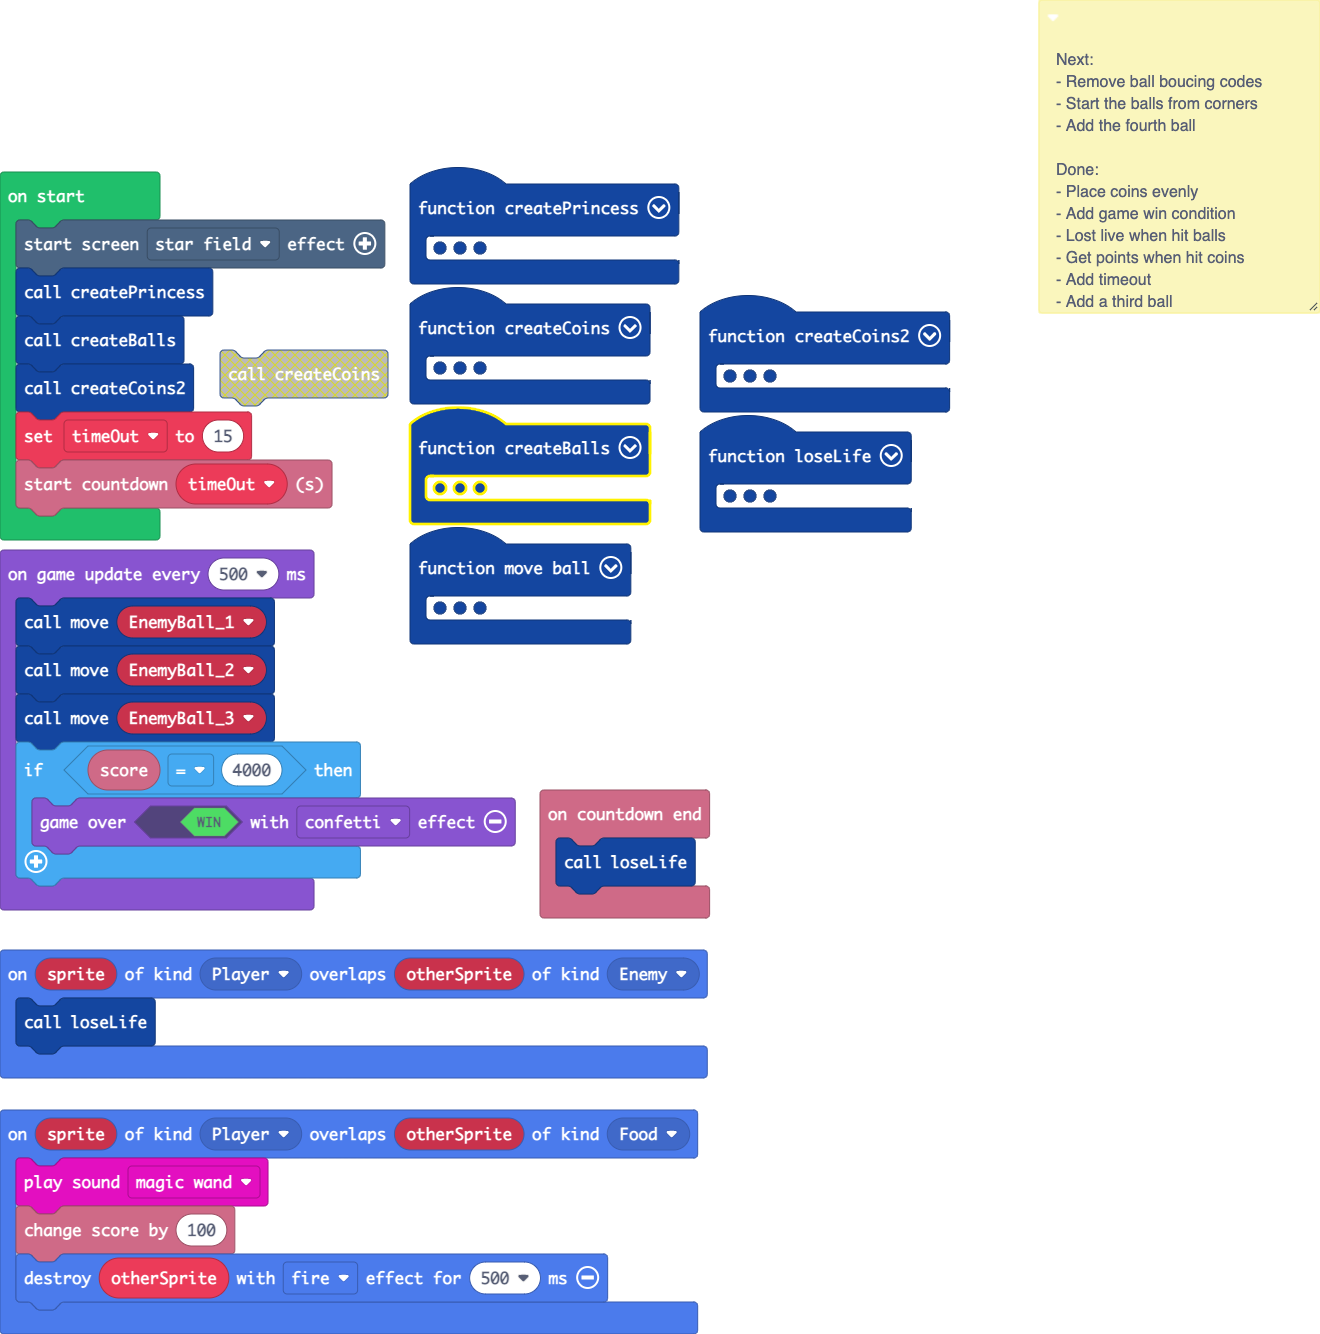
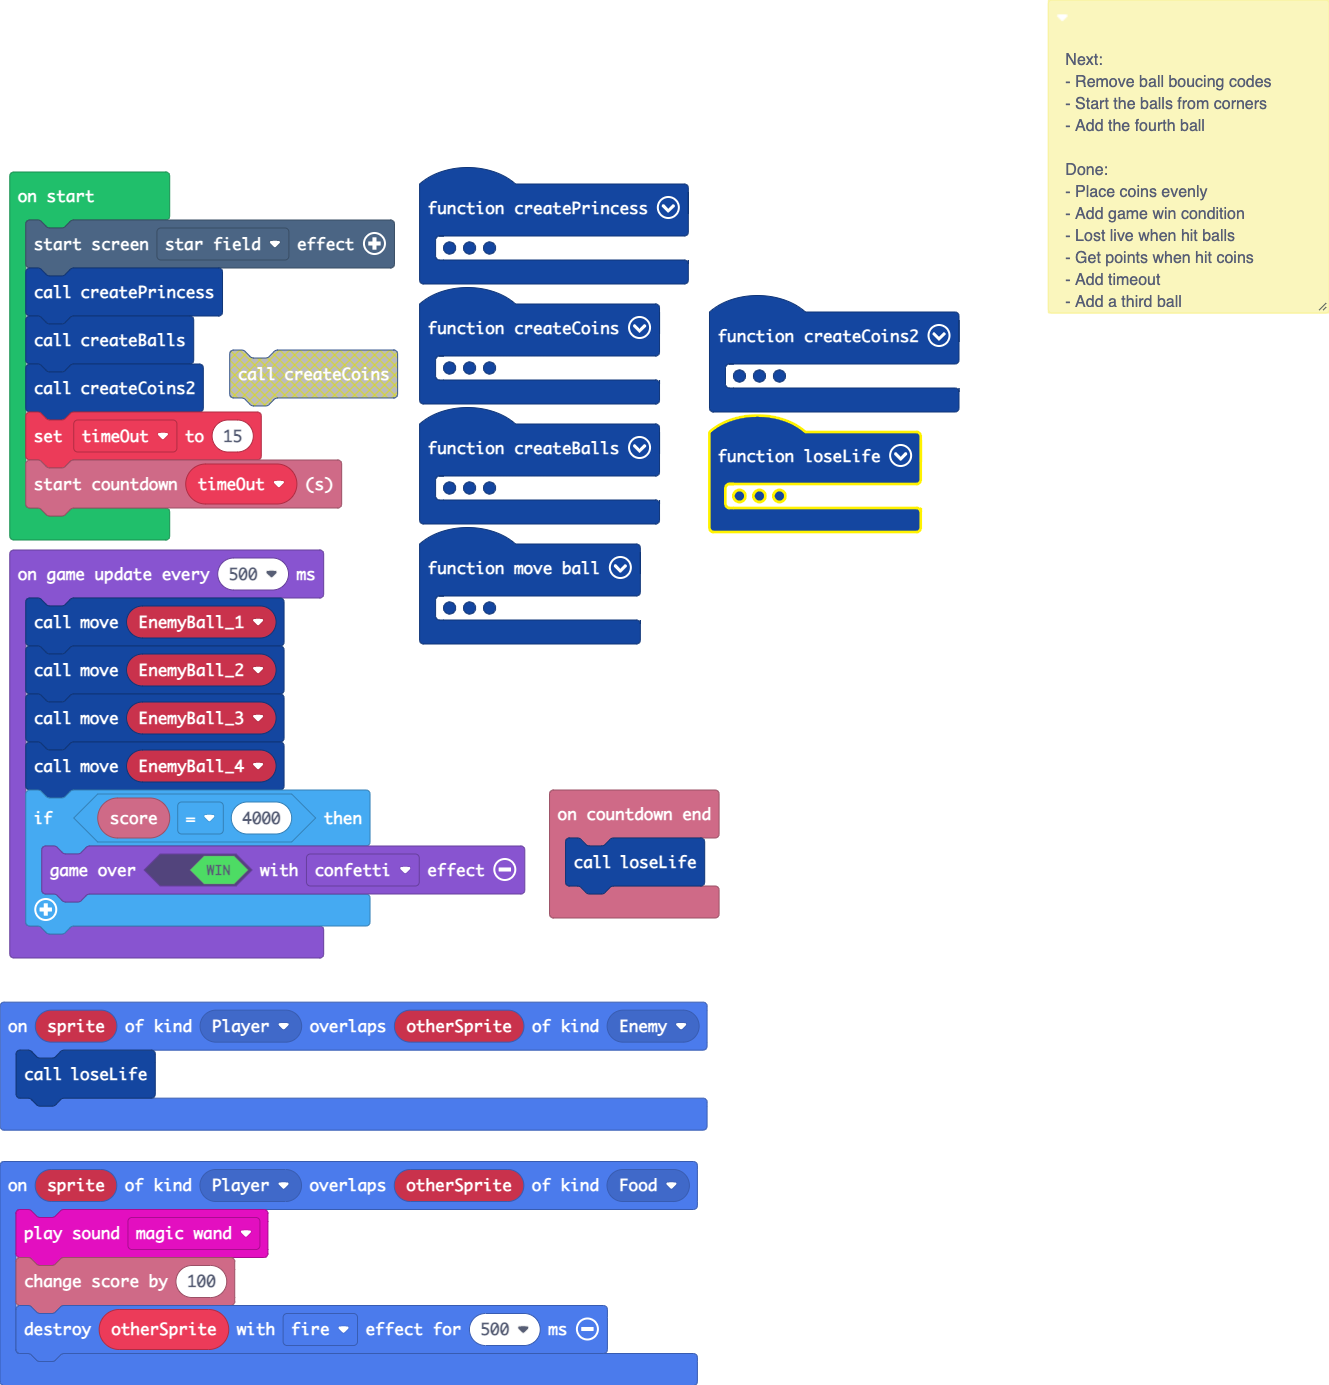
Added fourth ball and start balls from y=40

diff --git a/main.ts b/main.ts
@@ -107,6 +107,7 @@ function loseLife () {
     EnemyBall_1.destroy()
     EnemyBall_2.destroy()
     EnemyBall_3.destroy()
+    EnemyBall_4.destroy()
     createBalls()
     info.startCountdown(timeOut)
 }
@@ -133,7 +134,7 @@ function createBalls () {
         . . . . . . . . . . . . . . . . 
         `, SpriteKind.Enemy)
     EnemyBall_1.x = randint(10, scene.screenWidth() - 10)
-    EnemyBall_1.y = randint(10, scene.screenHeight() - 10)
+    EnemyBall_1.y = randint(40, scene.screenHeight() - 10)
     EnemyBall_1.setVelocity(50, 50)
     EnemyBall_2 = sprites.create(img`
         . . . . . . . . . . . . . . . . 
@@ -154,7 +155,7 @@ function createBalls () {
         . . . . . . . . . . . . . . . . 
         `, SpriteKind.Enemy)
     EnemyBall_2.x = randint(10, scene.screenWidth() - 10)
-    EnemyBall_2.y = randint(10, scene.screenHeight() - 10)
+    EnemyBall_2.y = randint(40, scene.screenHeight() - 10)
     EnemyBall_2.setVelocity(-50, 50)
     EnemyBall_3 = sprites.create(img`
         . . . . . . . . . . . . . . . . 
@@ -175,8 +176,29 @@ function createBalls () {
         . . . . . . . . . . . . . . . . 
         `, SpriteKind.Enemy)
     EnemyBall_3.x = randint(10, scene.screenWidth() - 10)
-    EnemyBall_3.y = randint(10, scene.screenHeight() - 10)
+    EnemyBall_3.y = randint(40, scene.screenHeight() - 10)
     EnemyBall_3.setVelocity(-50, 50)
+    EnemyBall_4 = sprites.create(img`
+        . . . . . . . . . . . . . . . . 
+        . . . . . . 4 4 4 4 . . . . . . 
+        . . . . 4 4 4 5 5 4 4 4 . . . . 
+        . . . 3 3 3 3 4 4 4 4 4 4 . . . 
+        . . 4 3 3 3 3 2 2 2 1 1 4 4 . . 
+        . . 3 3 3 3 3 2 2 2 1 1 5 4 . . 
+        . 4 3 3 3 3 2 2 2 2 2 5 5 4 4 . 
+        . 4 3 3 3 2 2 2 4 4 4 4 5 4 4 . 
+        . 4 4 3 3 2 2 4 4 4 4 4 4 4 4 . 
+        . 4 2 3 3 2 2 4 4 4 4 4 4 4 4 . 
+        . . 4 2 3 3 2 4 4 4 4 4 2 4 . . 
+        . . 4 2 2 3 2 2 4 4 4 2 4 4 . . 
+        . . . 4 2 2 2 2 2 2 2 2 4 . . . 
+        . . . . 4 4 2 2 2 2 4 4 . . . . 
+        . . . . . . 4 4 4 4 . . . . . . 
+        . . . . . . . . . . . . . . . . 
+        `, SpriteKind.Enemy)
+    EnemyBall_4.x = randint(10, scene.screenWidth() - 10)
+    EnemyBall_4.y = randint(40, scene.screenHeight() - 10)
+    EnemyBall_4.setVelocity(-50, 50)
 }
 function createCoins () {
     for (let index = 0; index < 10; index++) {
@@ -232,6 +254,7 @@ function move (ball: Sprite) {
 sprites.onOverlap(SpriteKind.Player, SpriteKind.Enemy, function (sprite, otherSprite) {
     loseLife()
 })
+let EnemyBall_4: Sprite = null
 let EnemyBall_3: Sprite = null
 let EnemyBall_2: Sprite = null
 let EnemyBall_1: Sprite = null
@@ -248,6 +271,7 @@ game.onUpdateInterval(500, function () {
     move(EnemyBall_1)
     move(EnemyBall_2)
     move(EnemyBall_3)
+    move(EnemyBall_4)
     if (info.score() == 4000) {
         game.over(true, effects.confetti)
     }

diff --git a/images.g.ts b/images.g.ts
@@ -369,6 +369,42 @@ f b b 4 1 f d d f 1 4 b b f
 . . . . . . 4 4 4 4 . . . . . . 
 . . . . . . . . . . . . . . . . 
 `;
+            case "image28":return img`
+. . . . . . . . . . . . . . . . 
+. . . . . . 4 4 4 4 . . . . . . 
+. . . . 4 4 4 5 5 4 4 4 . . . . 
+. . . 3 3 3 3 4 4 4 4 4 4 . . . 
+. . 4 3 3 3 3 2 2 2 1 1 4 4 . . 
+. . 3 3 3 3 3 2 2 2 1 1 5 4 . . 
+. 4 3 3 3 3 2 2 2 2 2 5 5 4 4 . 
+. 4 3 3 3 2 2 2 4 4 4 4 5 4 4 . 
+. 4 4 3 3 2 2 4 4 4 4 4 4 4 4 . 
+. 4 2 3 3 2 2 4 4 4 4 4 4 4 4 . 
+. . 4 2 3 3 2 4 4 4 4 4 2 4 . . 
+. . 4 2 2 3 2 2 4 4 4 2 4 4 . . 
+. . . 4 2 2 2 2 2 2 2 2 4 . . . 
+. . . . 4 4 2 2 2 2 4 4 . . . . 
+. . . . . . 4 4 4 4 . . . . . . 
+. . . . . . . . . . . . . . . . 
+`;
+            case "image29":return img`
+. . . . . . . . . . . . . . . . 
+. . . . . . 4 4 4 4 . . . . . . 
+. . . . 4 4 4 5 5 4 4 4 . . . . 
+. . . 3 3 3 3 4 4 4 4 4 4 . . . 
+. . 4 3 3 3 3 2 2 2 1 1 4 4 . . 
+. . 3 3 3 3 3 2 2 2 1 1 5 4 . . 
+. 4 3 3 3 3 2 2 2 2 2 5 5 4 4 . 
+. 4 3 3 3 2 2 2 4 4 4 4 5 4 4 . 
+. 4 4 3 3 2 2 4 4 4 4 4 4 4 4 . 
+. 4 2 3 3 2 2 4 4 4 4 4 4 4 4 . 
+. . 4 2 3 3 2 4 4 4 4 4 2 4 . . 
+. . 4 2 2 3 2 2 4 4 4 2 4 4 . . 
+. . . 4 2 2 2 2 2 2 2 2 4 . . . 
+. . . . 4 4 2 2 2 2 4 4 . . . . 
+. . . . . . 4 4 4 4 . . . . . . 
+. . . . . . . . . . . . . . . . 
+`;
         }
         return null;
     })
